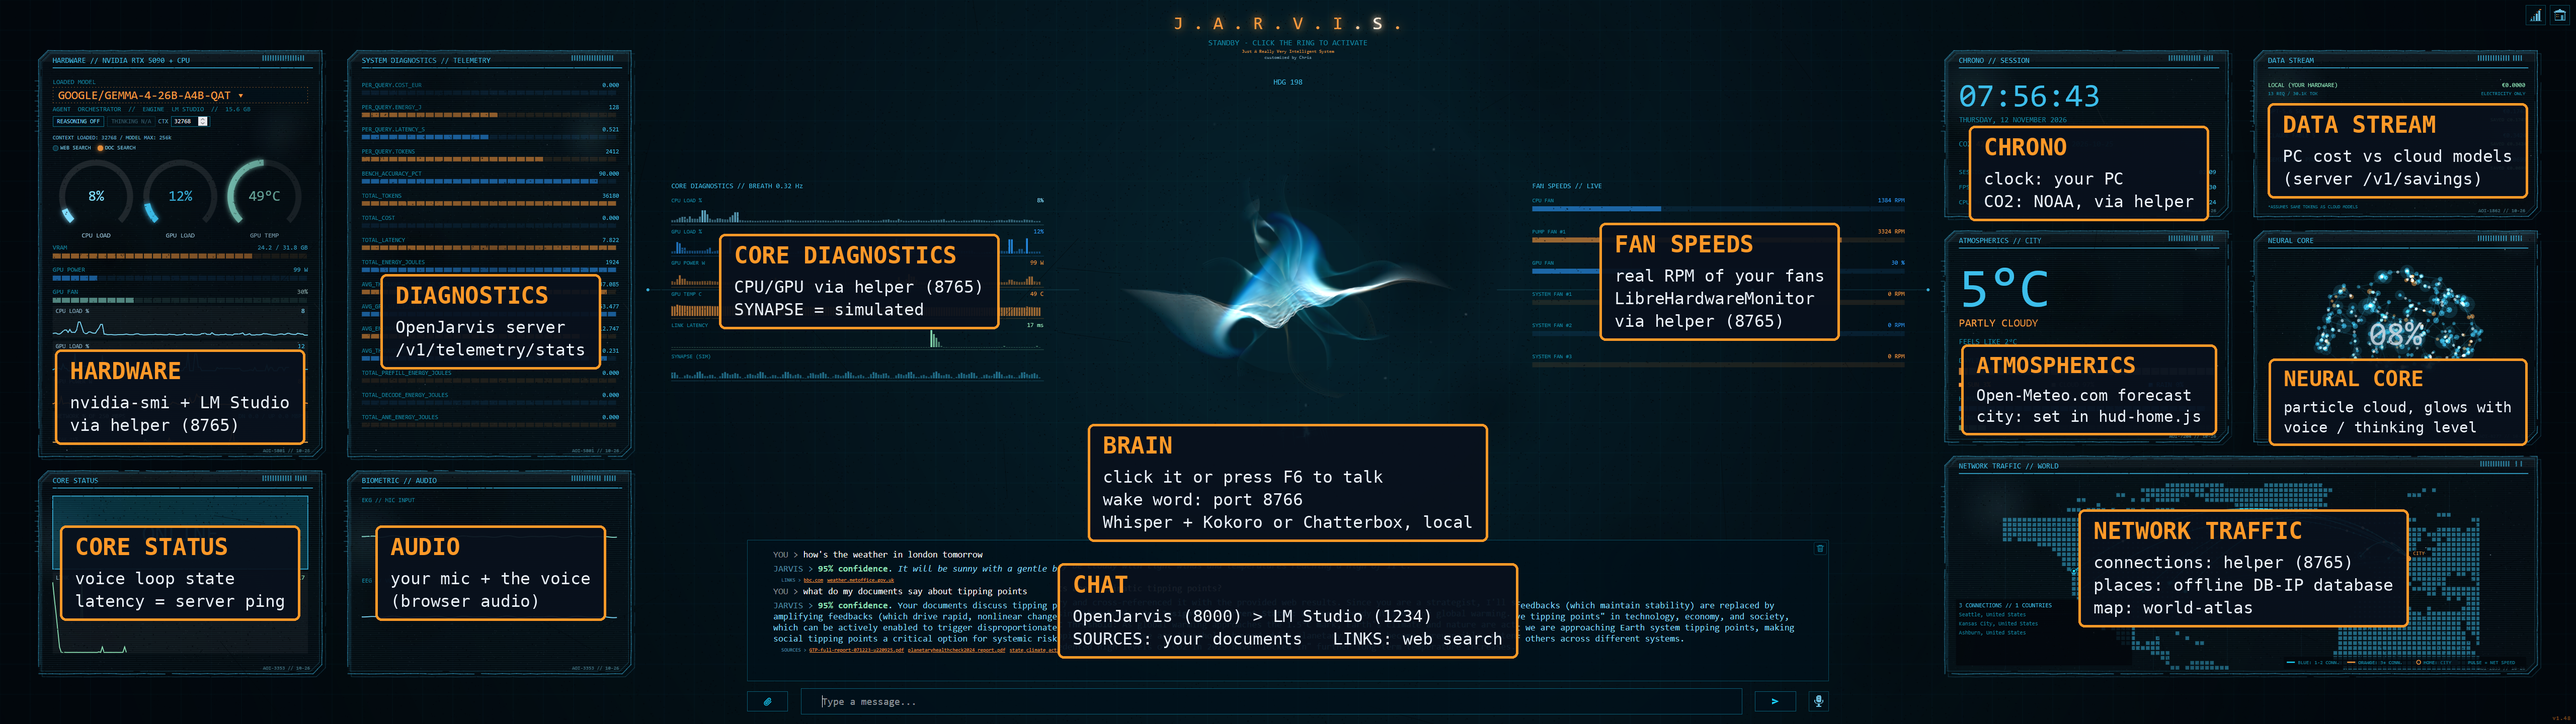
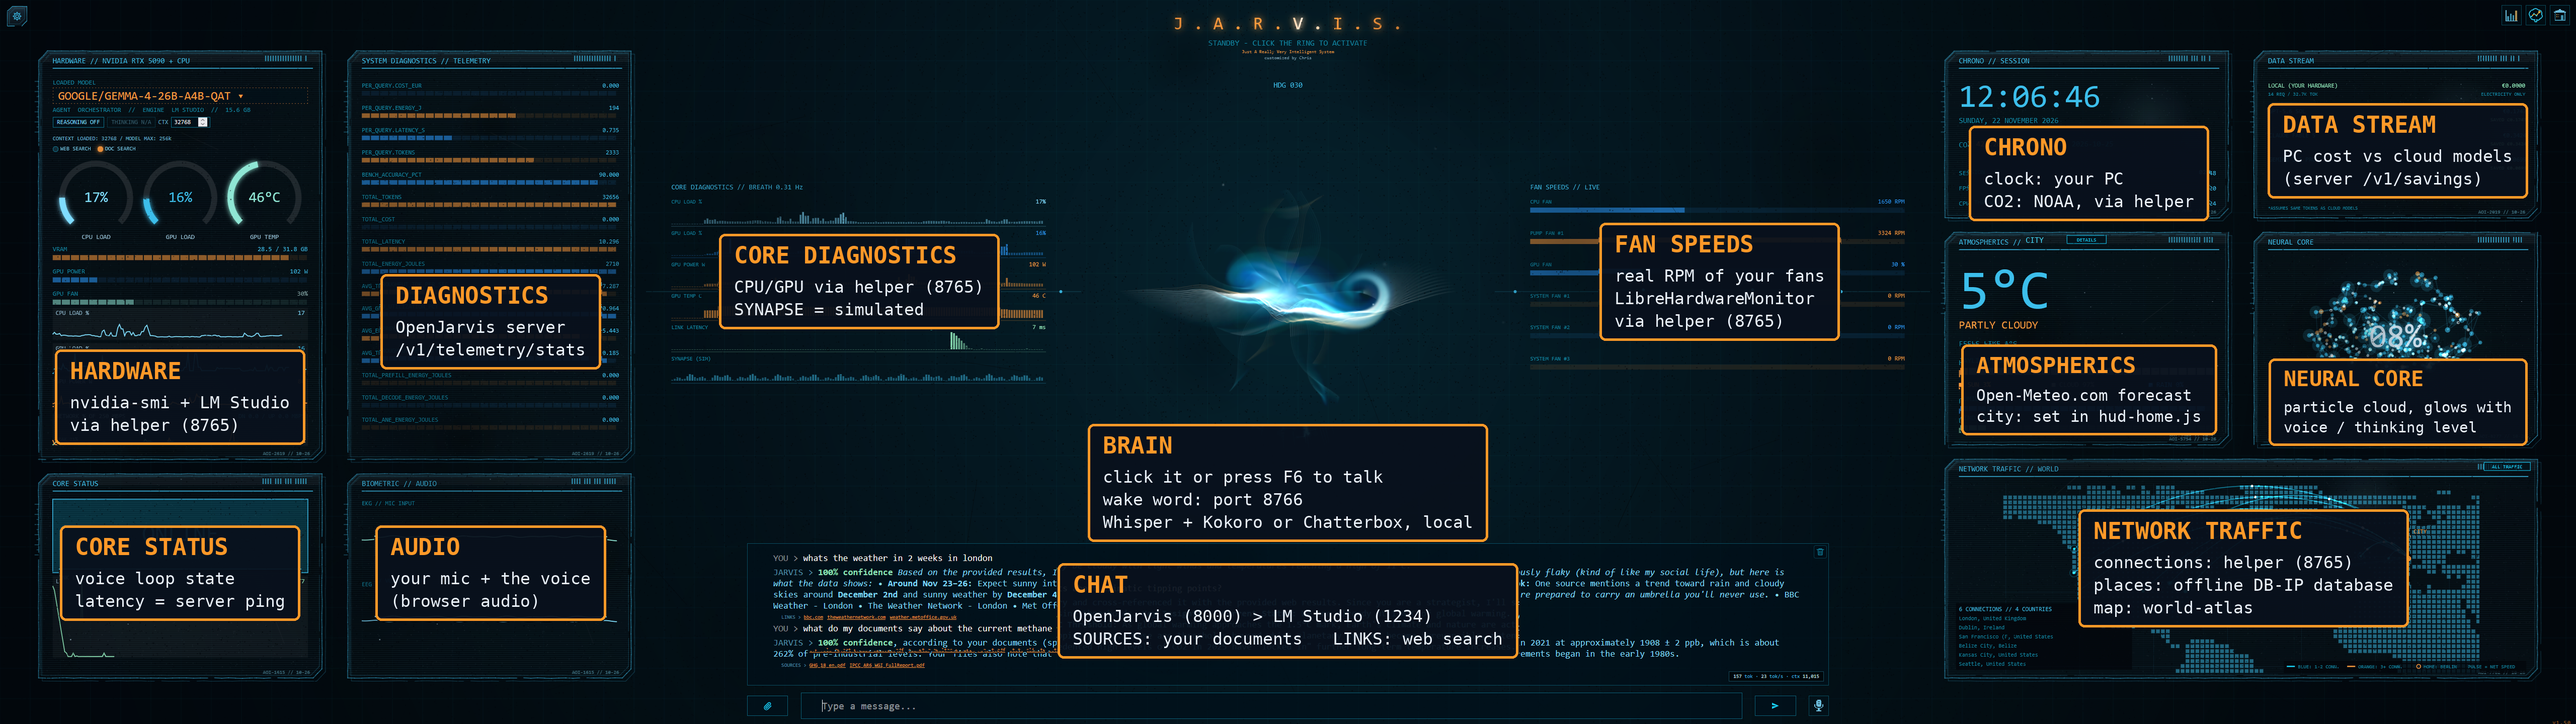
docs: new HUD screenshots (plain + annotated) and settings panel image
Claude-Session: https://claude.ai/code/session_01GAb2pvANsQxRKRLq2K1xZ7

diff --git a/README.md b/README.md
@@ -10,6 +10,8 @@
 ![The same HUD, with an orange box on every panel telling you where its data comes from](docs/images/hud-annotated.png)
 <sub>Every orange box says where that panel gets its data.</sub>
 
+<p align="center"><img src="docs/images/hud-settings.png" alt="The settings panel (gear, top left) with voice choice, speaking pace, listening and chat options" width="420"><br><sub>The settings panel (gear, top left): frame rate, voices (JARVIS, Chatterbox voices, your own clips), listening and chat options.</sub></p>
+
 > <sub><i>**Credit where it is due:** this is a **fork of [OpenJarvis](https://github.com/open-jarvis/OpenJarvis)** (Apache-2.0). The brain, the server and the engine are theirs. I added the full-screen HUD, voice, smart-home tools and installer on top. Please go give the original project a star. The original README is in [docs/OPENJARVIS-README.md](docs/OPENJARVIS-README.md).</i></sub>
 
 <p align="center">
